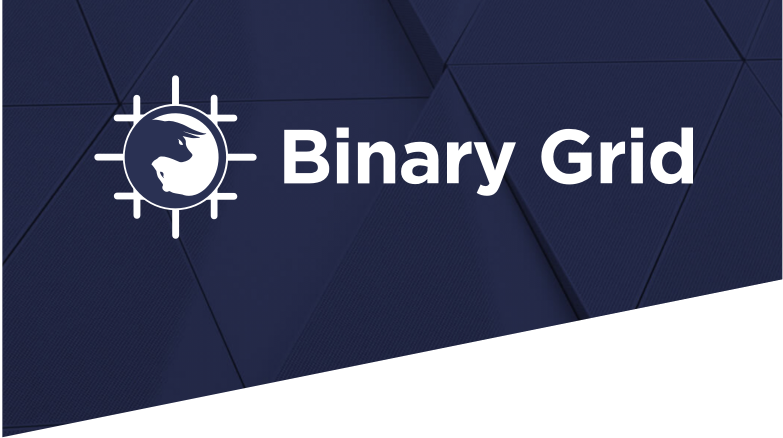
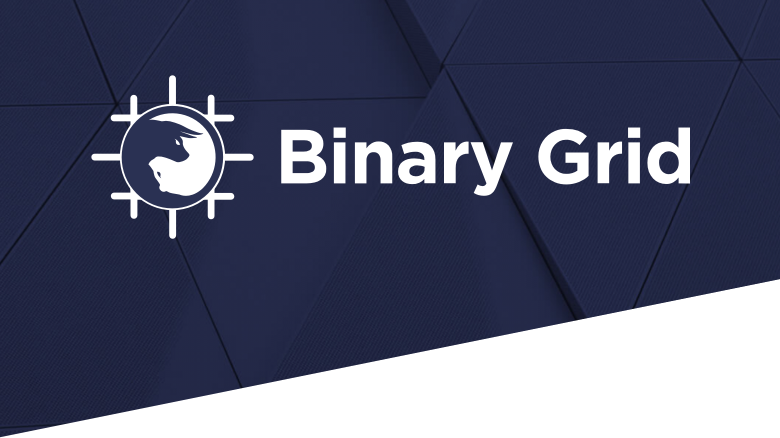
finish mobile view

diff --git a/src/templates/app/trade/trading.jsx b/src/templates/app/trade/trading.jsx
@@ -12,9 +12,9 @@ const Trading = () => (
                 <div className='gr-row'>
                     <img src={it.url_for('images/pages/trade/binary_grid_banner.png')} className='gr-4 gr-12-m gr-no-gutter banner-image' />
                     <img src={it.url_for('images/pages/trade/binary_grid_banner_m.png')} className='gr-4 gr-12-m gr-no-gutter banner-image-m invisible' />
-                    <div className='gr-8 gr-12-m row center-align center-text'>
-                        <h3 className='no-margin'>{it.L('The all-new rapid trading experience')}</h3>
-                        <a type='button' className='button' href={it.url_for('binary-grid')}><span>{it.L('Try now')}</span></a>
+                    <div className='gr-8 gr-12-m gr-row row center-align center-text'>
+                        <h3 className='gr-9 gr-12-m gr-padding-20 no-margin'>{it.L('The all-new rapid trading experience')}</h3>
+                        <a type='button' className='gr-3 gr-12-m gr-padding-10 button' href={it.url_for('binary-grid')}><span>{it.L('Try now')}</span></a>
                     </div>
                 </div>
             </div>

diff --git a/src/sass/app/trade.scss b/src/sass/app/trade.scss
@@ -1013,16 +1013,27 @@
 }
 
 #binary_grid_banner {
+    h3 {
+        line-height: 1.14;
+    }
     & > * {
         padding: 0 !important;
         border: solid 0.5px $COLOR_GRAY;
     }
     .banner-image {
+        left: -1px;
+        top: -1px;
+        margin-bottom: -2px;
+        position: relative;
+
         @media (max-width: 480px) {
             visibility: hidden;
             display: none;
 
             &-m {
+                position: relative;
+                top: -1px;
+                left: -0.5px;
                 visibility: visible;
                 display: flex !important;
             }
